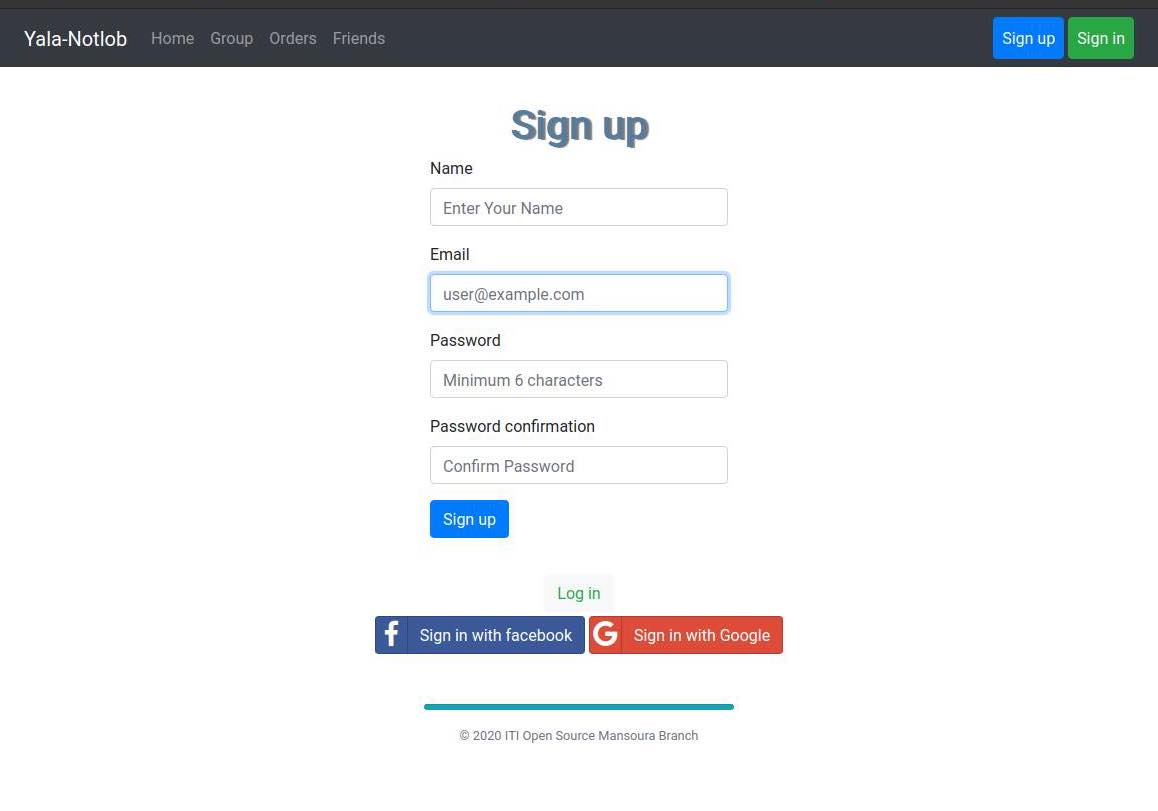
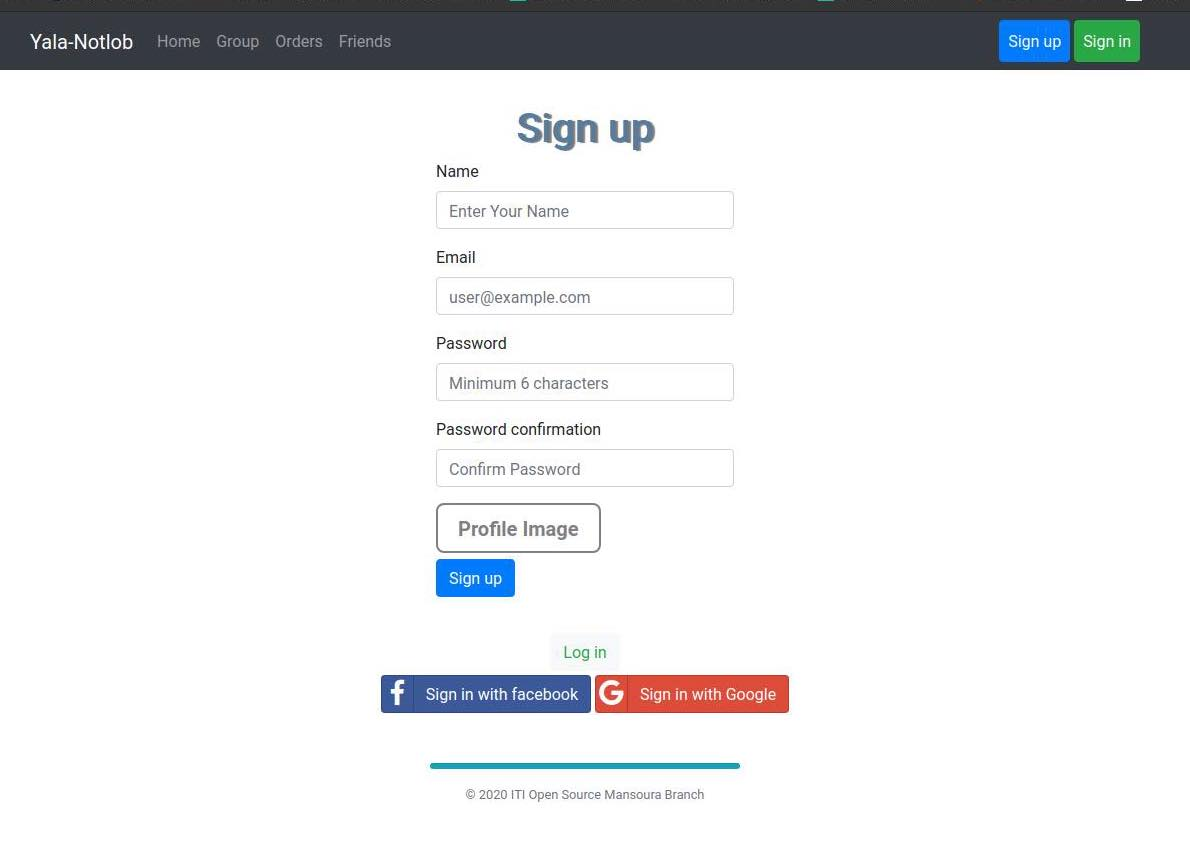
Read Me

diff --git a/README.md b/README.md
@@ -27,11 +27,14 @@ Things you may want to cover:
 
 <pre>
 - The user can Register using facebook or google account
+- The User can Upload Profile Image
 - The user can Login using facebook or google account
 - Users can't redirect to any page without login
+- User can see his name and profile image in navbar
 </pre>
 
 ### -Project Images
 ![](app/assets/images/login.jpg)
+![](app/assets/images/navbar.jpg)
 ![](app/assets/images/register.jpg)
 
